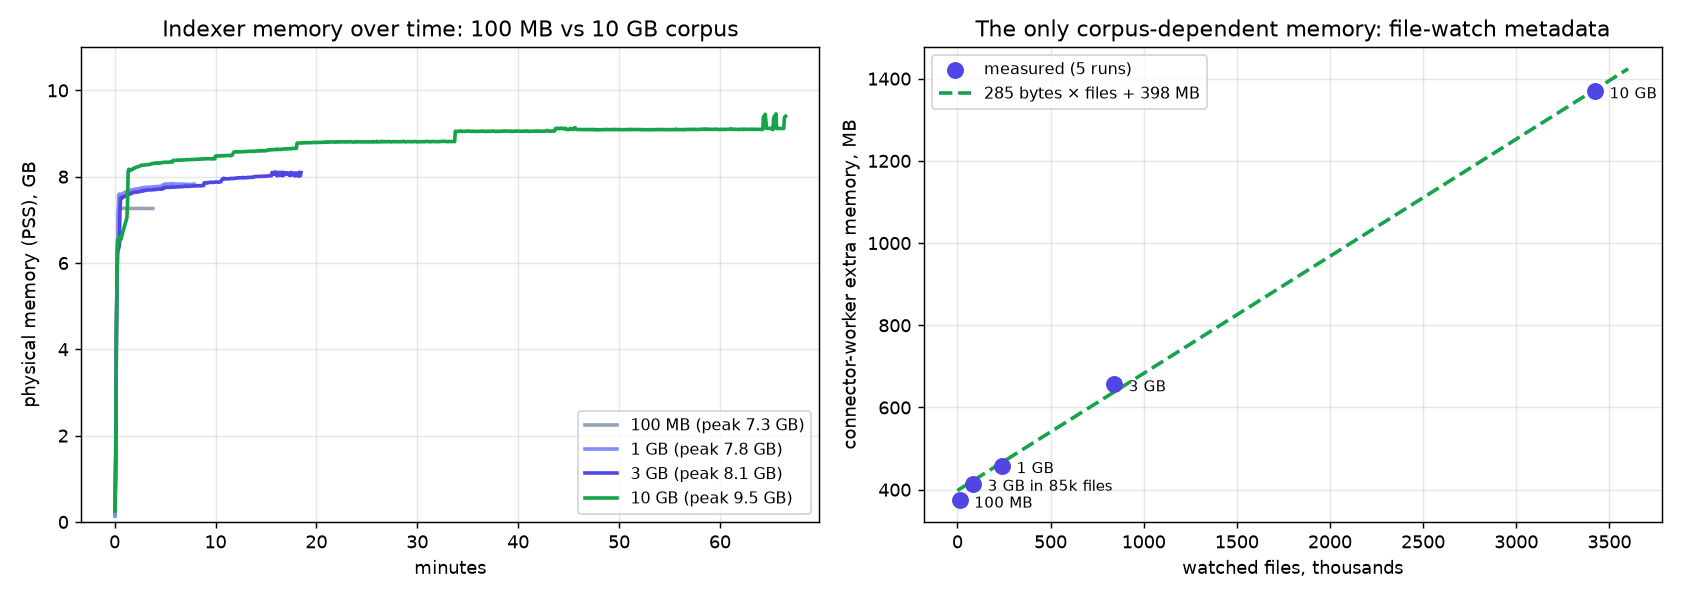
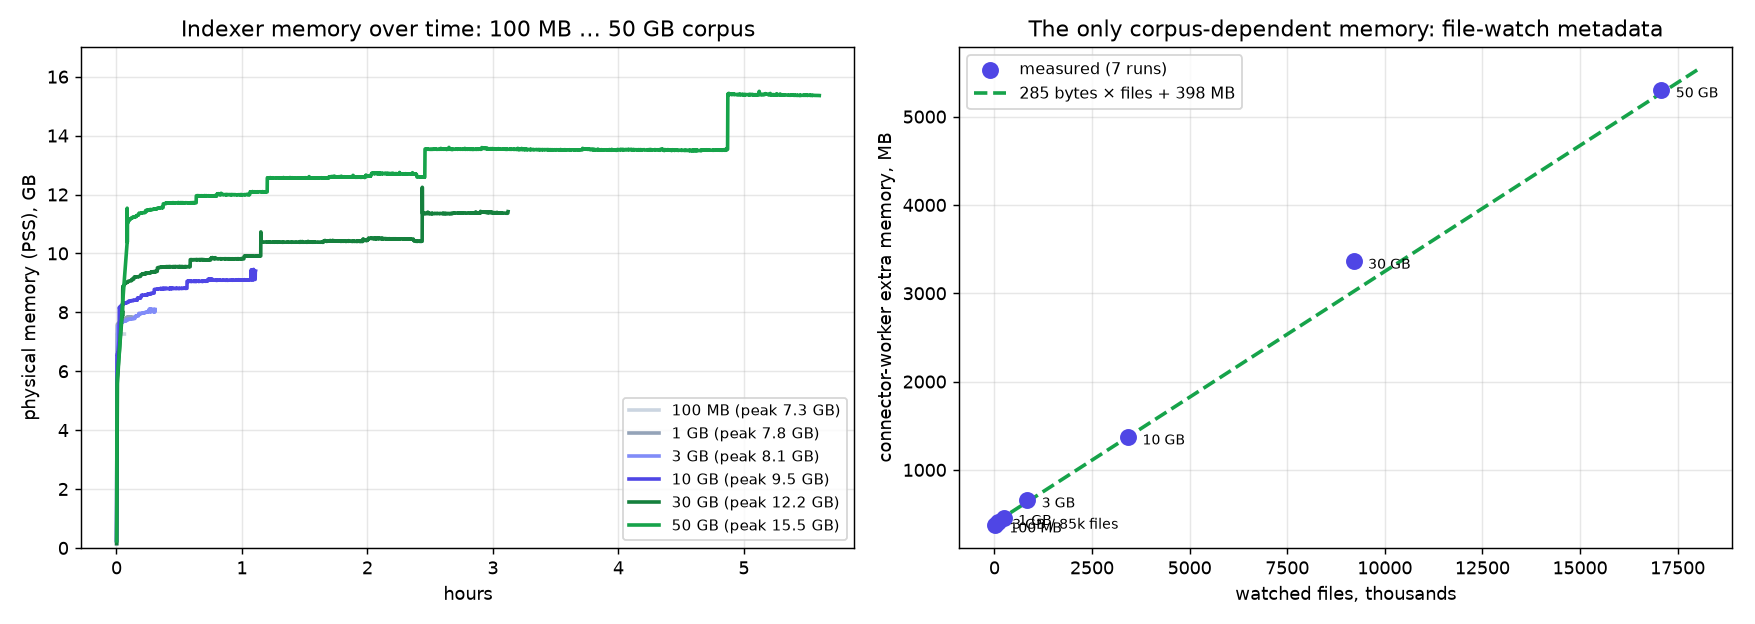
50 GB input benchmark

diff --git a/benchmarks/realtime-data-indexing/prepare_dataset.py b/benchmarks/realtime-data-indexing/prepare_dataset.py
@@ -21,7 +21,13 @@ import re
 from pathlib import Path
 
 HF_REPO = "wikimedia/wikipedia"
-HF_CONFIG = "20231101.en"
+# Language cascade: English alone tops out around 20 GB of plain text, so
+# larger corpora continue into further languages. Accuracy questions are
+# sampled from the head of the corpus, i.e. always from English.
+HF_CONFIGS = ["20231101.en", "20231101.de", "20231101.fr", "20231101.es", "20231101.it"]
+# Shard the docs tree: N files per subdirectory, so multi-million-file
+# corpora don't create a single pathological directory.
+FILES_PER_DIR = 10_000
 # Sample a question article roughly every N articles, up to a cap.
 QUESTION_EVERY = 2000
 MAX_QUESTIONS = 20
@@ -52,11 +58,12 @@ def main() -> None:
     docs.mkdir(parents=True, exist_ok=True)
 
     target_bytes = args.size_mb * 1024 * 1024
-    shards = sorted(
+    all_files = HfApi().list_repo_files(HF_REPO, repo_type="dataset")
+    shards = [
         f
-        for f in HfApi().list_repo_files(HF_REPO, repo_type="dataset")
-        if f.startswith(f"{HF_CONFIG}/train-")
-    )
+        for cfg in HF_CONFIGS
+        for f in sorted(x for x in all_files if x.startswith(f"{cfg}/train-"))
+    ]
 
     import pyarrow.parquet as pq
 
@@ -76,7 +83,10 @@ def main() -> None:
                 break
             if not text or len(text) < 200:
                 continue
-            name = f"{article_index:07d}-{_slug(title)}.txt"
+            subdir = docs / f"{article_index // FILES_PER_DIR:04d}"
+            if article_index % FILES_PER_DIR == 0:
+                subdir.mkdir(exist_ok=True)
+            name = f"{subdir.name}/{article_index % FILES_PER_DIR:04d}-{_slug(title)}.txt"
             payload = f"{title}\n\n{text}"
             (docs / name).write_text(payload, encoding="utf-8")
             written += len(payload.encode("utf-8"))

diff --git a/benchmarks/realtime-data-indexing/run_bench.py b/benchmarks/realtime-data-indexing/run_bench.py
@@ -138,12 +138,18 @@ def _accuracy(
         )
         resp.raise_for_status()
         results = resp.json()["results"]
-        paths = [Path(r["metadata"].get("path", "")).name for r in results]
-        if q["expected_file"] in paths:
+        # expected_file may carry a subdir ("0001/0042-Title.txt"); match on
+        # the full path suffix, not the basename, to survive sharded corpora.
+        paths = [r["metadata"].get("path", "") for r in results]
+        if any(p.endswith("/" + q["expected_file"]) for p in paths):
             hits += 1
         else:
             misses.append(
-                {"expected": q["expected_file"], "query": q["query"][:120], "got": paths}
+                {
+                    "expected": q["expected_file"],
+                    "query": q["query"][:120],
+                    "got": [str(Path(p).parent.name + "/" + Path(p).name) for p in paths],
+                }
             )
     return hits, len(questions), misses
 
@@ -161,7 +167,7 @@ def main() -> None:
 
     data_root = Path(_os.environ.get("BENCH_DATA_ROOT", ROOT / "datasets"))
     dataset = data_root / args.size
-    docs_count = len(list((dataset / "docs").glob("*.txt")))
+    docs_count = sum(1 for _ in (dataset / "docs").rglob("*.txt"))
     questions = json.loads((dataset / "questions.json").read_text())
     results_dir = ROOT / "results"
     results_dir.mkdir(exist_ok=True)
@@ -298,7 +304,7 @@ def main() -> None:
     peak_mb = max(s[1] for s in samples) / 1024 if samples else 0.0
     peak_pss_mb = max(s[3] for s in samples) / 1024 if samples else 0.0
     size_mb = sum(
-        f.stat().st_size for f in (dataset / "docs").glob("*.txt")
+        f.stat().st_size for f in (dataset / "docs").rglob("*.txt")
     ) / 1024 / 1024
     summary = {
         "dataset": args.size,

diff --git a/docs/ROADMAP.md b/docs/ROADMAP.md
@@ -1,6 +1,6 @@
 # vetosh — status & roadmap
 
-*Last updated: 2026-07-02.*
+*Last updated: 2026-07-04.*
 
 ## Where we are
 
@@ -58,11 +58,11 @@ actually deletes its vectors — in any of 8 databases — live."*
 
 - The new connectors (duckdb/qdrant/chroma/weaviate/pinecone) need a Pathway
   release that includes them; today vetosh runs against the develop tree.
-- DuckDB is single-writer: a *streaming* indexer excludes a concurrently
-  serving reader process — use `mode: static` with DuckDB, or a client-server
-  backend for live sync.
-- pgvector/Milvus/Chroma/Weaviate/Pinecone targets must be pre-created by the
-  user (dimension mismatch surfaces only at write time).
+- ~~DuckDB single-writer~~ — resolved: `pw.io.duckdb.write` ships
+  `detach_between_batches`; a streaming indexer and the serving process now
+  share the file (verified e2e).
+- ~~targets must be pre-created~~ — resolved: `prepare_backend` creates
+  tables/collections/indexes for all 8 backends at indexer startup.
 
 ---
 
@@ -71,31 +71,34 @@ actually deletes its vectors — in any of 8 databases — live."*
 *Goal: a flawless 5-minute "look what falls out of Pathway connectors for
 free" demo. Polish the first-run experience; make the live-sync magic visible.*
 
-1. ~~**`vetosh up`**~~ — DONE: a dumb supervisor that spawns `vetosh indexer`
-   and `vetosh server` as children simultaneously (uniform streaming for all
-   backends, no refresh loops) and tears both down on exit; if the indexer
-   finishes (static sources) the server keeps serving. DuckDB + streaming
-   currently warns about the single-writer lock — resolves when Pathway ships
-   `detach_between_batches` for `pw.io.duckdb.write` (requested; the vetosh
-   accessor already retries through brief lock windows).
-2. **Bundled demo corpus + script** (`vetosh demo`): sample docs, a scripted
-   moment where a file is edited/deleted and the chat answer visibly changes —
-   that moment *is* the technology pitch.
-3. **Fully local no-key path as the wizard default**: DuckDB +
-   `sentence_transformer` — nothing to sign up for except the free Pathway
-   license.
-4. **docker-compose for the live-sync demo** (qdrant + vetosh services), so
-   the "edit a file, watch the answer change" scene runs on a client-server
-   backend.
-5. **Re-record the README GIF** for the new flow (DuckDB default, new wizard).
-6. **Friendly failure modes**: missing license key, unreachable DB, embedder
-   dimension mismatch — each should produce one clear sentence, not a stack
-   trace. Add `vetosh doctor` (validate config, ping DB, check embedder
-   dimension vs. index).
-7. **Index statistics endpoint** (`/stats`: chunk/document counts, last update
-   time) surfaced in the frontend — makes liveness visible.
-8. **Smoke-test the demo path in CI** so the show never breaks: quickstart →
-   index → retrieve on DuckDB.
+1. ~~**`vetosh up`**~~ — DONE: dumb supervisor, both processes children,
+   uniform streaming for all backends; DuckDB live-serves through
+   `detach_between_batches`.
+2. ~~**Bundled demo corpus + script** (`vetosh demo`)~~ — DONE: Lumina Coffee
+   corpus, zero-to-chat one command, pricing-edit scene verified e2e.
+3. ~~**Fully local no-key path as the wizard default**~~ — DONE: DuckDB +
+   local embeddings first, minimal question path, silent defaults
+   (port 8989, persistence, splitter).
+4. ~~**Re-record the README GIF**~~ — DONE (2026-07-04): quickstart →
+   `vetosh up` → live edit → chat; regenerate with
+   `python demos/generate_demos.py`.
+5. ~~**Index statistics endpoint + frontend liveness**~~ — DONE:
+   `/api/v1/stats` + "indexed N s ago" in the chat header.
+6. **Friendly failure modes + `vetosh doctor`** — REMAINS: validate config,
+   ping DB, check embedder dimension vs index, check parser deps. (Partial:
+   fingerprint diffs, license hints, S3 region validator already done.)
+7. **Smoke-test the demo path in CI** — test written
+   (`tests/test_demo_path.py`), needs a green run + CI wiring.
+
+*(moved to Category 2: docker-compose live-sync demo — no longer a demo
+blocker since DuckDB live-serves; it's now an example deployment.)*
+
+## The showcase rule
+
+vetosh exists to demonstrate the Pathway framework. Every roadmap item must
+state what Pathway/xpack functionality it reuses directly; features that
+would be standalone code written *beside* the framework are flagged ⚠️/❌ and
+held back unless separately justified.
 
 ## Category 2 — before showing to the external world
 
@@ -110,29 +113,53 @@ nothing embarrasses us.*
    must just work.
 4. **Server hardening**: optional API-key auth, CORS config, rate limiting,
    request size limits, timeouts.
-5. **Auto-create targets where possible**: pgvector table (dimension from
-   `BaseEmbedder.get_embedding_dimension()`), Milvus collection, Pinecone
-   index — remove the biggest first-run trap (config promises
-   `embedding_dimension` but nothing consumes it today).
+5. ~~**Auto-create targets**~~ — DONE: `prepare_backend` creates
+   pgvector/Milvus/Chroma/Weaviate/Pinecone/MongoDB targets with the right
+   dimension (config → embedder introspection fallback).
 6. **Observability**: structured logs, `/metrics` (Prometheus), indexing lag
    gauge.
 7. **Streaming `/rag` responses** (SSE) in server + frontend.
 8. **More modalities via config**: `parser:` section exposing Docling
    (PDF+tables+images), ImageParser, AudioParser, PaddleOCR from the xpack.
-9. **S3 / SharePoint / pyfilesystem sources** — `only_metadata` support just
-   landed in Pathway develop (#10483); wire them into `sources:`.
-10. **Optional reranker** (xpack `rerankers`) and hybrid retrieval where the
-    backend supports it.
-11. **Docs site**: per-backend tutorials, troubleshooting, architecture page;
+9. ~~**S3 / SharePoint sources**~~ — DONE: fs/gdrive/s3/sharepoint wired
+   into `sources:` with `only_metadata` + `max_backlog_size`; integration
+   tests against MinIO.
+9b. **docker-compose example deployment** (qdrant + vetosh services) — moved
+   from Category 1.
+10. **Optional reranker** — agreed 2026-07-04: `reranker:` config section,
+    server fetches k×3 candidates, reranks to top-k in `/retrieve`/`/rag`;
+    showcase = benchmark accuracy before/after at identical indexing cost.
+    ⚠️ Showcase check pending: xpack `rerankers` are graph UDFs; verify they
+    are callable standalone in the thin server. If not, this is bespoke
+    code — decide explicitly before building.
+11. **`pyfilesystem` source** — reuses `pw.io.pyfilesystem` (only_metadata):
+    one new `sources:` type = live watch over SFTP/FTP/WebDAV/ZIP. ✅ pure
+    Pathway showcase.
+12. **`/metrics`** — reuses the engine's monitoring HTTP server
+    (`pw.run(with_http_server=True)`), Prometheus format for free. ✅ pure
+    Pathway showcase.
+13. **Change alerts to Slack** — reuses `pw.io.slack` as a second graph
+    output ("N documents re-indexed"); small, sells the streaming nature.
+    ✅ pure Pathway showcase.
+14. **Docs site**: per-backend tutorials, troubleshooting, architecture page;
     CONTRIBUTING + issue templates; choose and state the OSS license clearly.
-12. **CI quality gates**: ruff, mypy, py3.10–3.13 matrix.
+15. **CI quality gates**: ruff, mypy, py3.10–3.13 matrix.
 
 ## Category 3 — after the public prototype
 
-1. **MCP server mode** (`pathway.xpacks.llm.mcp_server`): "chat with your
-   docs from Claude/IDE" — big reach, low effort.
-2. **Adaptive RAG** (geometric context growth, from
-   `AdaptiveRAGQuestionAnswerer`) as an opt-in `/rag` strategy.
+1. **MCP server mode** — ❌ held back by the showcase rule (2026-07-04
+   audit): xpack `McpServer` serves from *inside* a Pathway graph, which
+   contradicts vetosh's decoupled thin server; a FastMCP facade on our
+   server would be standalone code reusing nothing from Pathway. Revisit if
+   the xpack grows a graph-free serving mode, or accept as flagged bespoke.
+2. **Adaptive RAG** as an opt-in `/rag` strategy — reuses the xpack
+   strategy functions (`answer_with_geometric_rag_strategy`) called with our
+   retrieved docs; ✅ xpack reuse (functions, not the graph server).
+2b. **Stream sources** (Kafka/NATS/MQTT via `pw.io.*`) — documents as
+   events; ✅ pure Pathway showcase. **Airbyte source** (`pw.io.airbyte`,
+   hundreds of SaaS sources) — ✅ reuse but operationally heavy.
+2c. **Elasticsearch output** (`pw.io.elasticsearch` + our accessor, same
+   pattern as the existing 8 backends) — ✅ reuse; bridge to hybrid search.
 3. **Evaluation harness** (RAGAS or similar) + per-backend latency/recall
    benchmarks; publish numbers.
 4. **LEANN backend** once its reader path matures (today: write-only,

diff --git a/README.md b/README.md
@@ -105,16 +105,19 @@ see [benchmarks/realtime-data-indexing](benchmarks/realtime-data-indexing):
 | 1 GB | 524 000 | 240 516 | 836 595 | 5 min | 8.0 GB | 2.2 GB | 19/20 |
 | 3 GB | 1 573 000 | 841 890 | 2 703 850 | 15 min | 8.3 GB | 6.0 GB | 16/20 |
 | 10 GB | 5 243 000 | 3 423 359 | 10 093 514 | 63 min | 9.7 GB | 20.8 GB | 14/20 |
+| 30 GB | 15 729 000 | 9 202 620 | 29 817 294 | 3.1 h | 12.5 GB | 61.3 GB | 12/20 |
+| 50 GB | 26 214 000 | 17 083 603 | 53 913 774 | 5.6 h | 15.9 GB | 107.8 GB | 11/20 |
 
 Documents flow through the pipeline rather than accumulating in it, so
 what stays in memory is short and worth spelling out.
 
 **Grows with the corpus — one thing.** The file-watch index: to detect live
 edits and deletions, the indexer keeps a record (path, mtime, size, owner)
-per watched file. Measured cost: **285 bytes per file** — 4 MB for 13k files,
-1 GB for 3.4M (right-hand plot: five runs against the formula). It scales
-with the *number of files*, not bytes: the same 3 GB packed into 85k larger
-files needs 24 MB instead of 240 MB.
+per watched file. Measured cost: **285 bytes per file**, verified from 13
+thousand to 17 million files (right-hand plot: seven runs against the
+formula; the 50 GB point lands within 1%). It scales with the *number of
+files*, not bytes: the same 3 GB packed into 85k larger files needs 24 MB
+instead of 240 MB.
 
 **Constant, regardless of corpus size.** The embedding stack (PyTorch
 runtime + model, per worker), the engine baseline (~200 MB per process),
@@ -123,10 +126,12 @@ the first minutes of a run and stay there — identical on 3 GB and 10 GB.
 
 **On disk, not in memory.** Parsed-text cache, persistence snapshots, and
 the embeddings themselves (in the vector database). That is why the curves
-plateau: a 100× larger corpus costs 1.3× the memory.
+plateau: a **500× larger corpus costs 2.2× the memory** — and the growth
+that remains is the file-watch index above, i.e. the corpus in fewer files
+would cost less. Indexing time scales linearly with bytes throughout.
 
 <p align="center">
-  <img src="docs/assets/bench-memory.png" alt="Left: indexer PSS over time for 100MB..10GB corpora, all curves plateau at 7-10GB. Right: connector-worker extra memory across five runs matches 285 bytes/file + 398 MB" width="100%">
+  <img src="docs/assets/bench-memory.png" alt="Left: indexer PSS over time for 100MB..10GB corpora, all curves plateau at 7-10GB. Right: connector-worker extra memory across seven runs matches 285 bytes/file + 398 MB" width="100%">
 </p>
 
 The peak itself is dominated by the embedding stack, not the engine — a